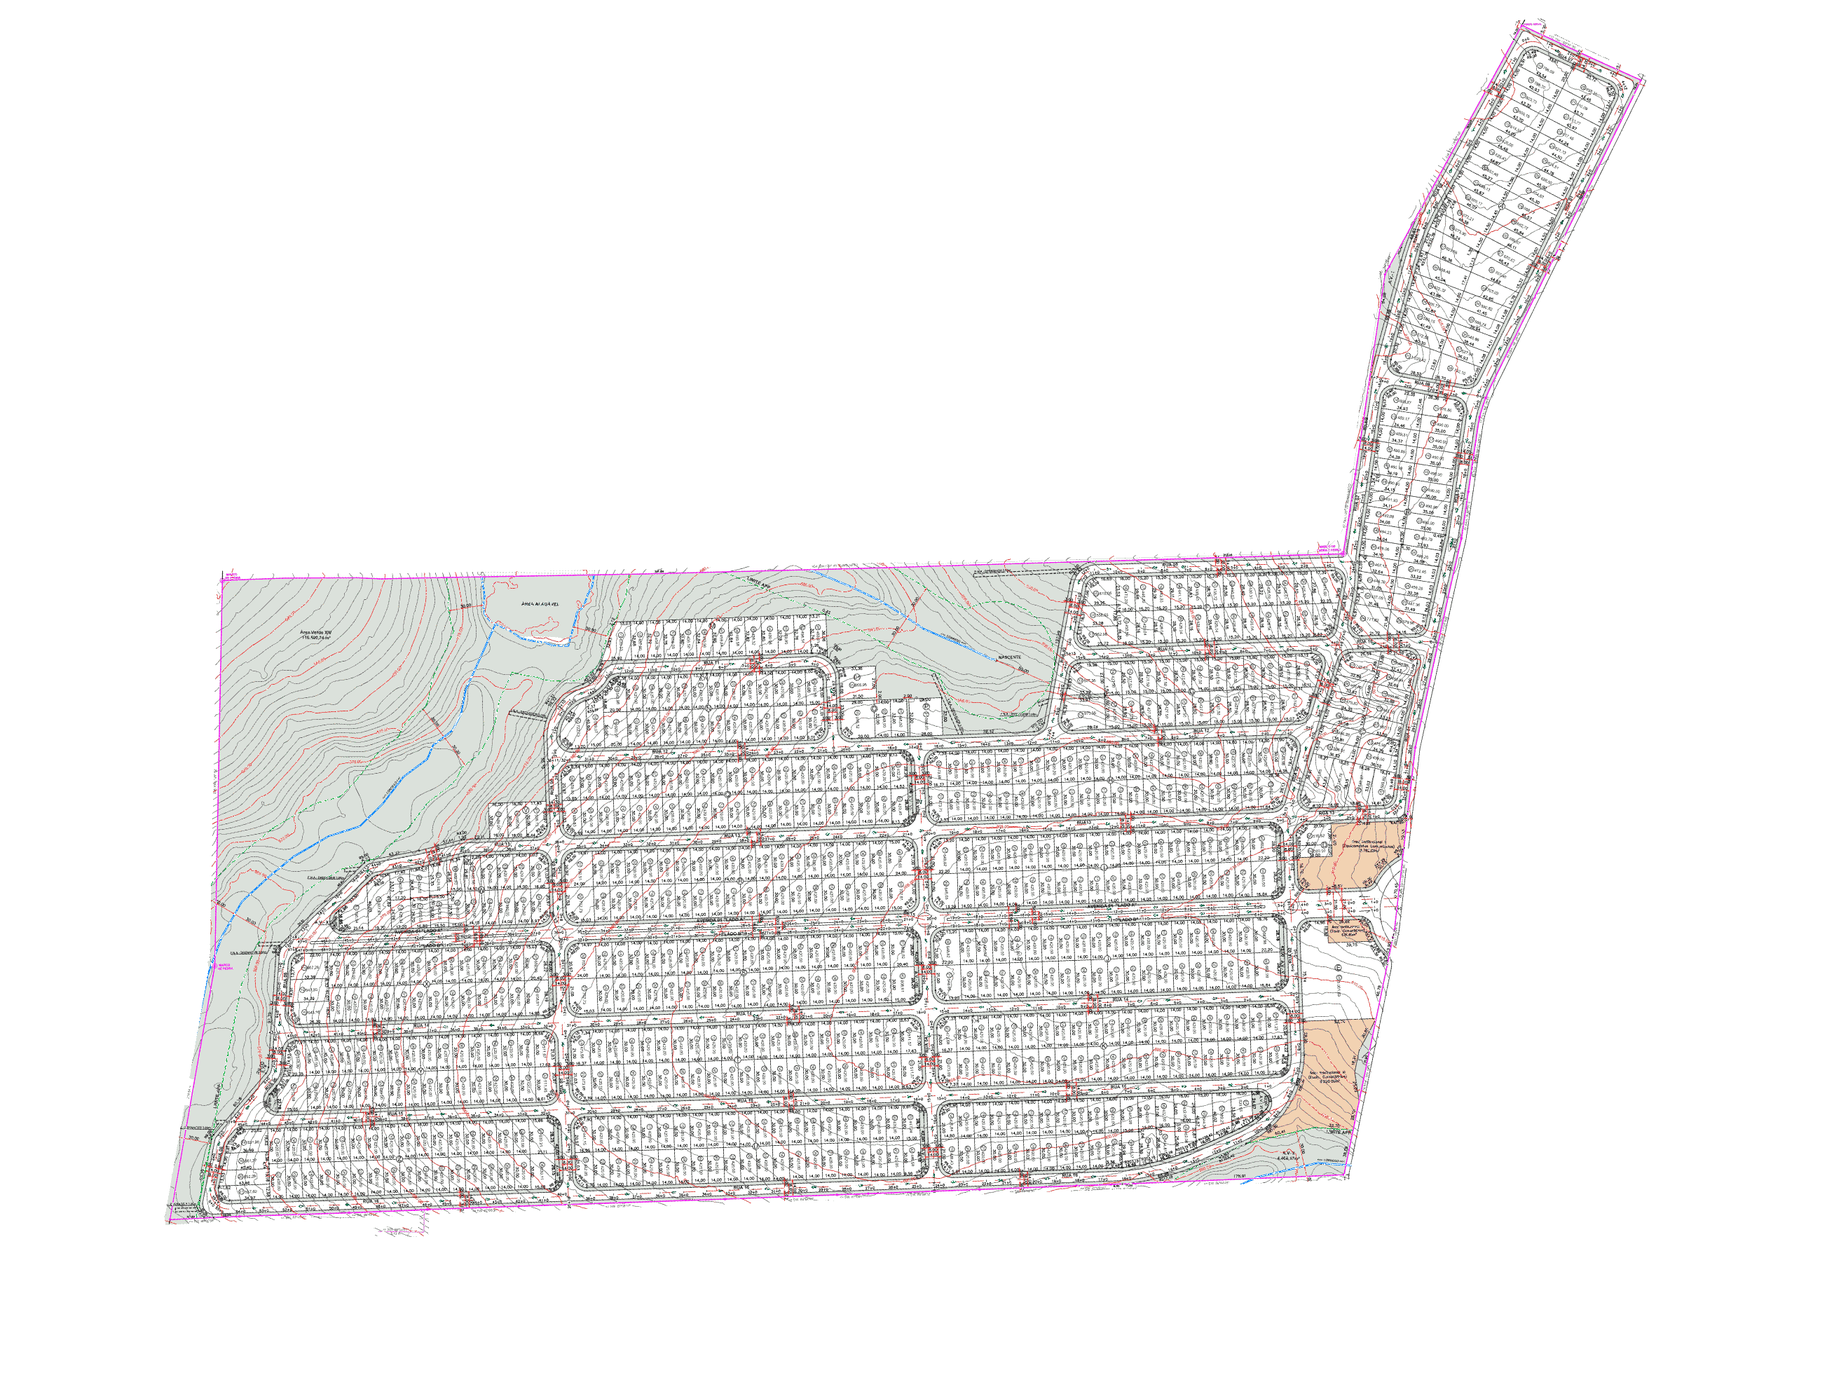
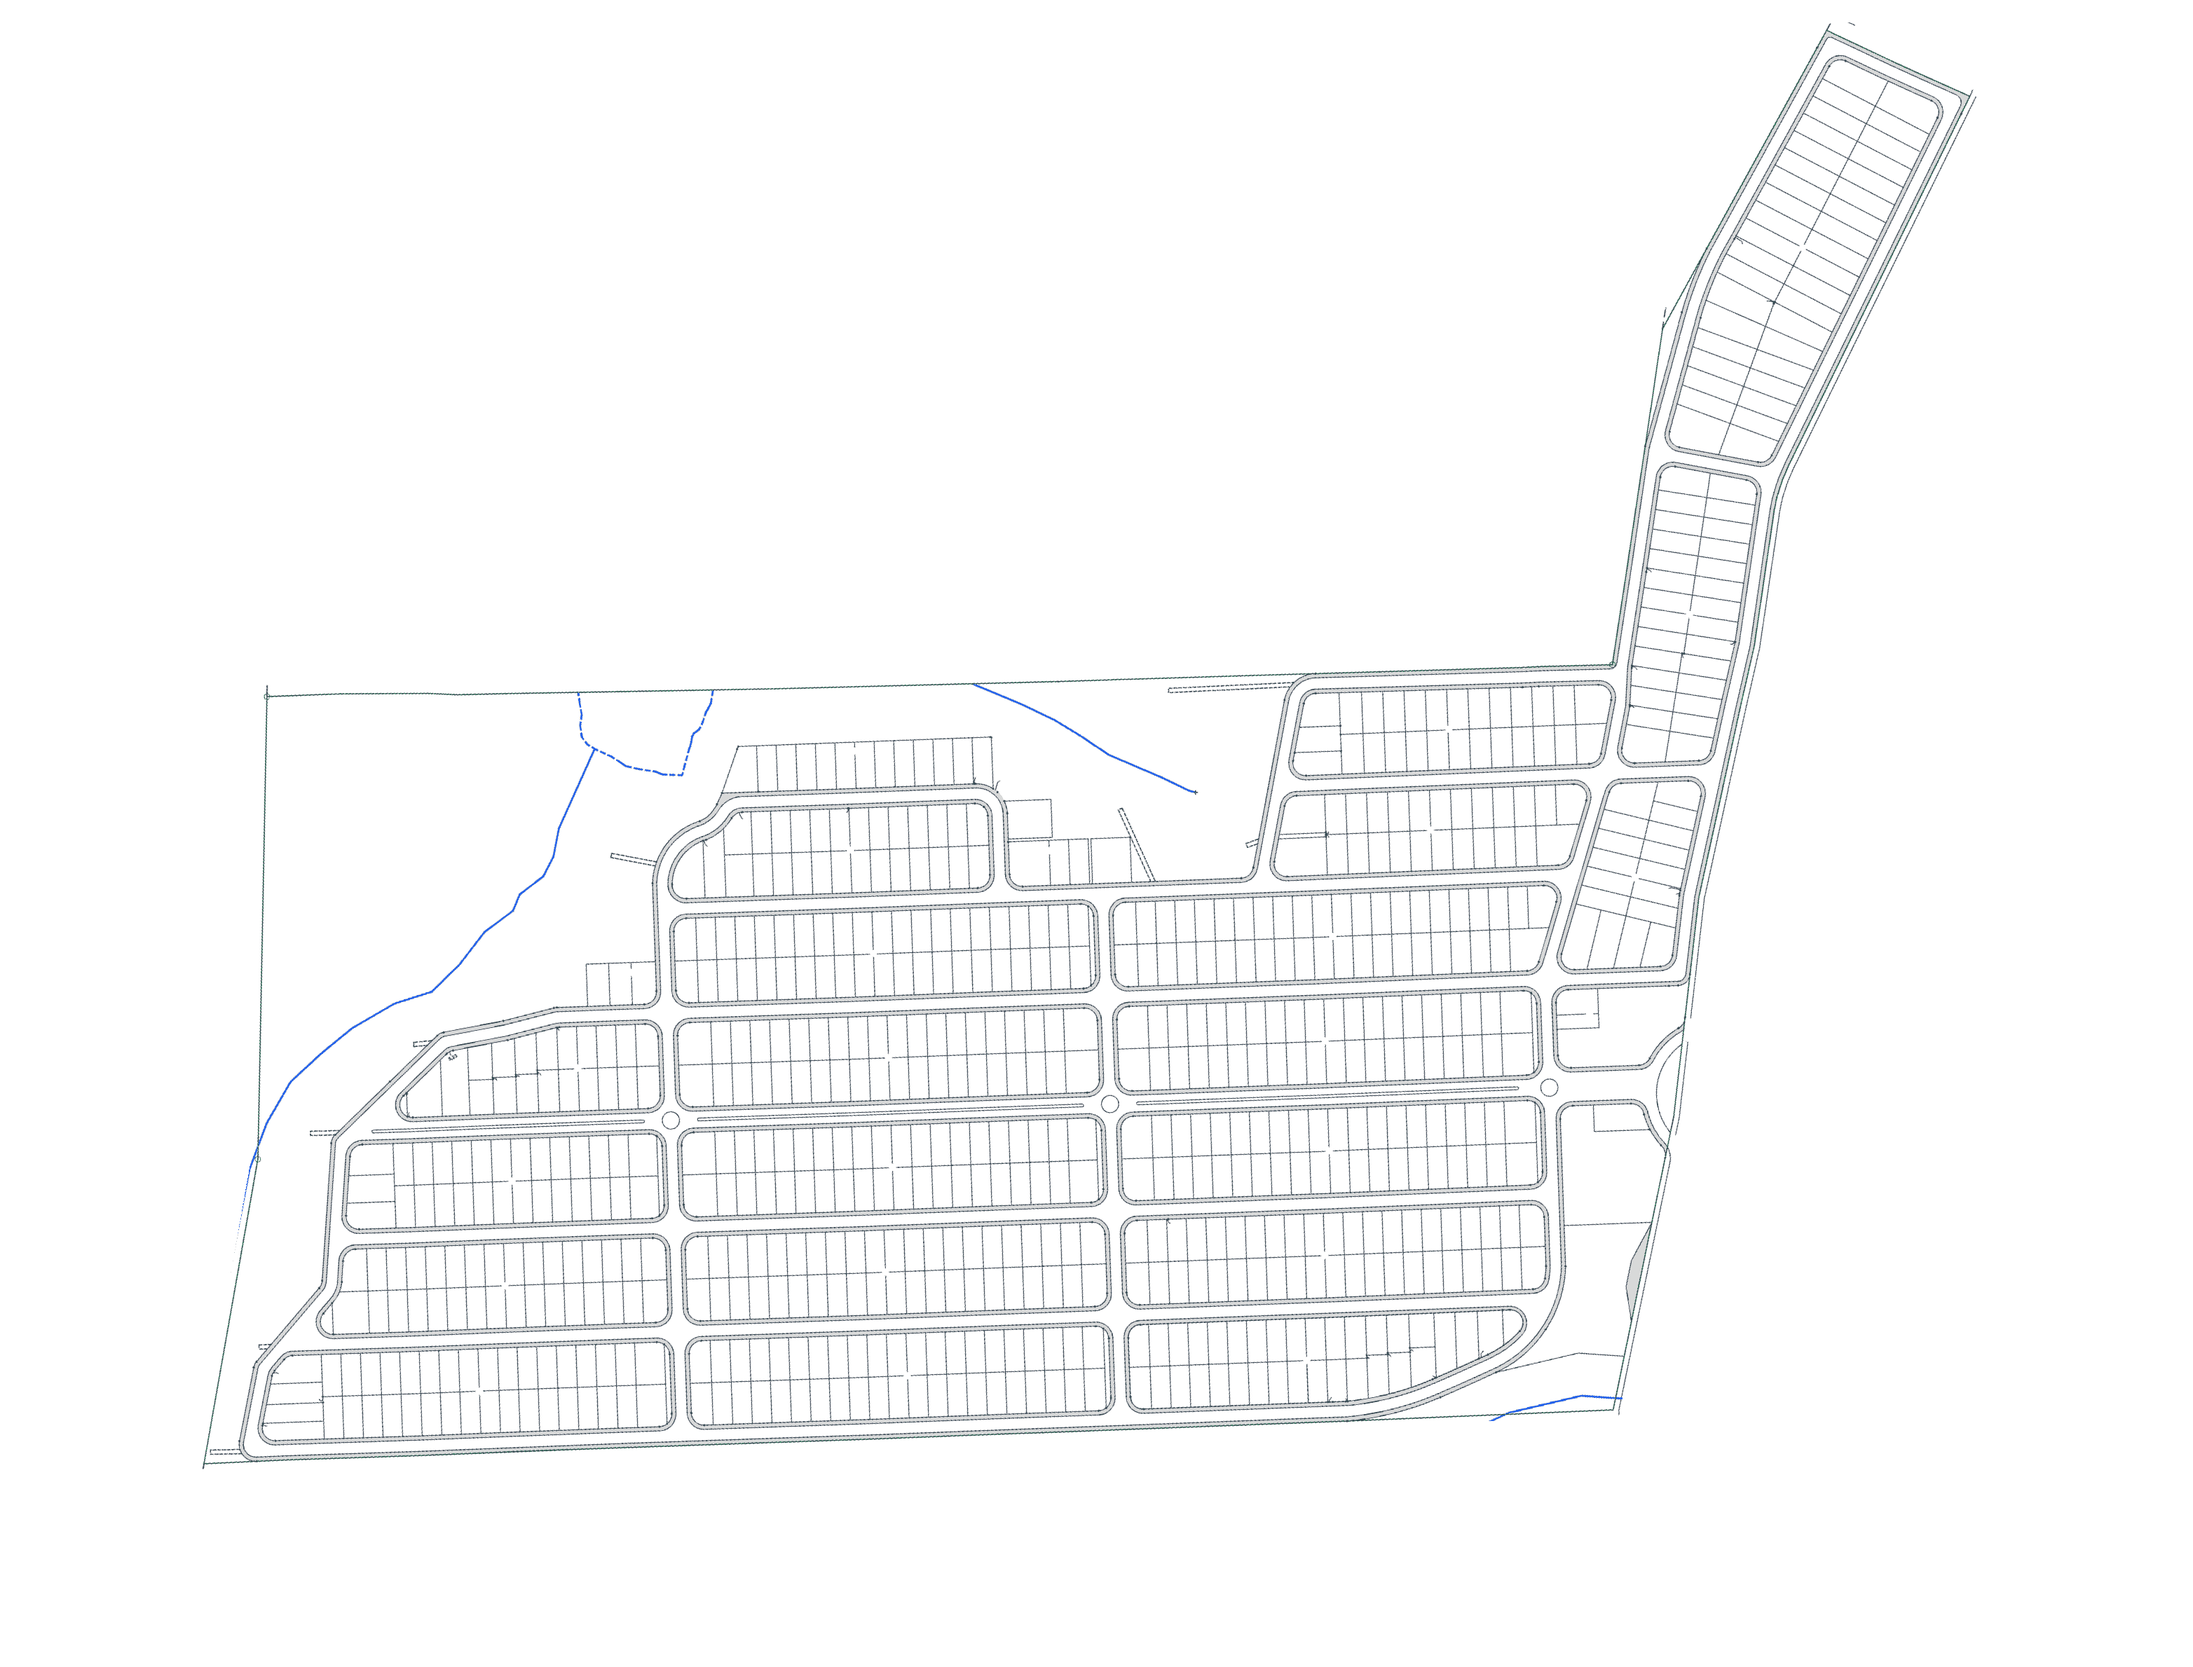
Mapa de lotes: Ravello com desenho limpo (só divisas, quadras e ruas, extraído das camadas do PDF), exemplo do novo padrão

Changed region(s): [[0.0932, 0.0308, 0.901, 0.8925]]

diff --git a/ferramentas/mapa-lotes/overlay-norte.py b/ferramentas/mapa-lotes/overlay-norte.py
@@ -1,0 +1,89 @@
+# -*- coding: utf-8 -*-
+# Gera o overlay (norte para cima, recortado ao perimetro magenta, branco transparente) e os bounds lat/lon,
+# a partir do render da planta + ajuste afim pagina->UTM. Generico via JSON de configuracao.
+import json, os, sys, math, time
+from PIL import Image, ImageChops, ImageFilter, ImageDraw
+sys.stdout.reconfigure(encoding='utf-8')
+exec(open(os.path.dirname(os.path.abspath(__file__)) + '/utm.py', encoding='utf-8').read())
+cfg = json.load(open(sys.argv[1], encoding='utf-8'))
+T = os.environ['TEMP'] + '/mapas/'
+fit = json.load(open(T + cfg['fit'])); ce, cn = fit['E'], fit['N']
+PW, PH = cfg['pw'], cfg['ph']
+im = Image.open(T + cfg['png']).convert('RGB'); W, H = im.size; k = W / PW
+im_m = Image.open(T + cfg['png_mascara']).convert('RGB') if cfg.get('png_mascara') else im   # imagem usada p/ achar o perimetro (magenta)
+t0 = time.time()
+def page2utm(x, y): return (ce[0]*x + ce[1]*y + ce[2], cn[0]*x + cn[1]*y + cn[2])
+def utm2page(E, N):
+    a, b, c = ce; d, e, f = cn; det = a*e - b*d
+    return ((e*(E-c) - b*(N-f))/det, (-d*(E-c) + a*(N-f))/det)
+def page2px(x, y): return (x*k, (PH - y)*k)
+def px2page(X, Y): return (X/k, PH - Y/k)
+# --- exterior do perimetro magenta ---
+r, g, b = im_m.split()
+def band(ch, lo, hi): return ch.point(lambda v: 255 if lo <= v <= hi else 0)
+mag = ImageChops.multiply(ImageChops.multiply(ImageChops.subtract(r, g, 1, 0).point(lambda v: 255 if v >= 45 else 0), ImageChops.subtract(b, g, 1, 0).point(lambda v: 255 if v >= 45 else 0)), band(r, 140, 255)).filter(ImageFilter.MaxFilter(cfg.get('dilata_mag', 9)))
+ext = mag.copy()
+for sx, sy in cfg.get('sementes_ext', [[0, 0]]): 
+    if ext.getpixel((sx, sy)) == 0: ImageDraw.floodfill(ext, (sx, sy), 128)
+interior = ext.point(lambda v: 255 if v != 128 else 0)   # 255 = dentro (ou na linha)
+# conferencia: pontos de controle devem estar dentro; se vazou (ou sem perimetro), usa o retangulo dos lotes + margem
+vazou = False
+for x, y in cfg.get('pontos_dentro', []):
+    X, Y = page2px(x, y); ok = interior.getpixel((int(X), int(Y))) == 255; vazou = vazou or not ok
+    print('ponto', x, y, 'dentro' if ok else 'FORA (vazou!)')
+if vazou or cfg.get('sem_perimetro'):
+    Q = json.load(open(T + cfg['quadras']))['quadras']; pts = [p for d in Q.values() for p in d.values()]
+    mg = cfg.get('margem_pt', 60)
+    x0, x1 = min(p[0] for p in pts) - mg, max(p[0] for p in pts) + mg; y0, y1 = min(p[1] for p in pts) - mg, max(p[1] for p in pts) + mg
+    interior = Image.new('L', im.size, 0); ImageDraw.Draw(interior).rectangle([page2px(x0, y1), page2px(x1, y0)], fill=255)
+    print('usando retangulo dos lotes: x %.0f..%.0f y %.0f..%.0f pt' % (x0, x1, y0, y1))
+# fica so a regiao conexa que contem o 1o ponto de controle (descarta marcas magenta soltas)
+if cfg.get('pontos_dentro') and not (vazou or cfg.get('sem_perimetro')):
+    X, Y = page2px(*cfg['pontos_dentro'][0]); reg = interior.copy(); ImageDraw.floodfill(reg, (int(X), int(Y)), 200)
+    interior = reg.point(lambda v: 255 if v == 200 else 0).filter(ImageFilter.MaxFilter(cfg.get('dilata_mag', 9)))
+bb = interior.getbbox(); print('bbox interior px', bb, 'em %.1fs' % (time.time() - t0))
+# --- grade de saida em lat/lon ---
+cantos = [px2page(bb[0], bb[1]), px2page(bb[2], bb[1]), px2page(bb[0], bb[3]), px2page(bb[2], bb[3])]
+lls = [utm2ll(*page2utm(*c)) for c in cantos]
+lat0, lat1 = min(l[0] for l in lls), max(l[0] for l in lls); lon0, lon1 = min(l[1] for l in lls), max(l[1] for l in lls)
+mlat = 111320.0; mlon = 111320.0 * math.cos(math.radians((lat0 + lat1)/2))
+res = cfg.get('res_m', 0.35)
+OW = int(round((lon1 - lon0) * mlon / res)); OH = int(round((lat1 - lat0) * mlat / res))
+print('saida %dx%d px (%.2f m/px), %.0f x %.0f m' % (OW, OH, res, (lon1-lon0)*mlon, (lat1-lat0)*mlat))
+def out2src(u, v):
+    lat = lat1 - v * (lat1 - lat0) / OH; lon = lon0 + u * (lon1 - lon0) / OW
+    return page2px(*utm2page(*ll2utm(lat, lon)))
+# ajuste afim (minimos quadrados) saida -> fonte, com grade 5x5 de pontos
+pts = [(u, v) for u in [0, OW/4, OW/2, 3*OW/4, OW] for v in [0, OH/4, OH/2, 3*OH/4, OH]]
+def lsq(vals):
+    # resolve [u v 1] * [p q r]^T = val
+    import itertools
+    A = [[u, v, 1.0] for u, v in pts]; n = 3
+    ATA = [[sum(A[i][a]*A[i][b] for i in range(len(A))) for b in range(n)] for a in range(n)]
+    ATb = [sum(A[i][a]*vals[i] for i in range(len(A))) for a in range(n)]
+    # gauss
+    M = [ATA[i] + [ATb[i]] for i in range(n)]
+    for i in range(n):
+        p = max(range(i, n), key=lambda r: abs(M[r][i])); M[i], M[p] = M[p], M[i]
+        for r in range(n):
+            if r != i:
+                f = M[r][i] / M[i][i]; M[r] = [M[r][c] - f*M[i][c] for c in range(n+1)]
+    return [M[i][n] / M[i][i] for i in range(n)]
+src = [out2src(u, v) for u, v in pts]
+A = lsq([s[0] for s in src]); B = lsq([s[1] for s in src])
+err = max(math.hypot(A[0]*u + A[1]*v + A[2] - s[0], B[0]*u + B[1]*v + B[2] - s[1]) for (u, v), s in zip(pts, src))
+print('afim saida->fonte: erro max %.2f px' % err)
+coef = (A[0], A[1], A[2], B[0], B[1], B[2])
+sai = im.transform((OW, OH), Image.AFFINE, coef, resample=Image.BILINEAR, fillcolor=(255, 255, 255))
+msk = interior.transform((OW, OH), Image.AFFINE, coef, resample=Image.NEAREST, fillcolor=0)
+# alpha: fora do perimetro = 0; quase branco = 0
+minc = ImageChops.darker(ImageChops.darker(*sai.split()[:2]), sai.split()[2])
+alpha = ImageChops.multiply(msk, minc.point(lambda v: 0 if v > cfg.get('branco', 228) else 255))
+sai.putalpha(alpha)
+q = sai.quantize(colors=cfg.get('cores', 48), method=Image.Quantize.FASTOCTREE)
+out = cfg['saida']; q.save(out, 'PNG', optimize=True)
+print('overlay', out, os.path.getsize(out) // 1024, 'KB', 'em %.1fs' % (time.time() - t0))
+json.dump({'bounds': [[lat0, lon0], [lat1, lon1]], 'size': [OW, OH]}, open(T + cfg['saida_bounds'], 'w'))
+print('bounds [[%.9f,%.9f],[%.9f,%.9f]]' % (lat0, lon0, lat1, lon1))
+# preview reduzido sobre fundo cinza
+pv = Image.new('RGB', (OW, OH), (120, 140, 120)); pv.paste(sai, (0, 0), sai); pv.thumbnail((1400, 1400)); pv.save(T + cfg['saida_bounds'].replace('.json', '-preview.jpg'), 'JPEG', quality=80)

diff --git a/ferramentas/mapa-lotes/planta-limpa.py b/ferramentas/mapa-lotes/planta-limpa.py
@@ -1,0 +1,59 @@
+# -*- coding: utf-8 -*-
+# "Planta limpa": a partir do render da planta + textos posicionados, gera uma versao padronizada, sem escritas nem cores:
+# so o traçado (divisas de lotes, guias das ruas, rotatorias) em cinza escuro com halo claro, fundo branco (vira transparente
+# no overlay-norte.py). Uso: planta-limpa.py cfg.json  (cfg: texto, png, pw, ph, rotate, modo ('escuro' | 'escuro_ou_azul'),
+#   escuro_max, min_max, fator_fs, saida (png), espessura (px), halo (px), apaga_extra: lista de [x0,y0,x1,y1] em pt p/ apagar)
+import json, os, sys, math, time
+from PIL import Image, ImageChops, ImageFilter, ImageDraw
+sys.stdout.reconfigure(encoding='utf-8')
+cfg = json.load(open(sys.argv[1], encoding='utf-8'))
+T = os.environ['TEMP'] + '/mapas/'
+it = json.load(open(T + cfg['texto'], encoding='utf-8'))
+im = Image.open(T + cfg['png']).convert('RGB'); W, H = im.size; PW, PH = cfg['pw'], cfg['ph']; k = W / PW
+t0 = time.time()
+r, g, b = im.split()
+mn = ImageChops.darker(ImageChops.darker(r, g), b); mx = ImageChops.lighter(ImageChops.lighter(r, g), b)
+def band(ch, lo, hi): return ch.point(lambda v: 255 if lo <= v <= hi else 0)
+if cfg.get('modo', 'escuro') == 'escuro_ou_azul':
+    linhas = mn.point(lambda v: 255 if v < cfg.get('min_max', 130) else 0)
+else:
+    cinzento = ImageChops.subtract(mx, mn, 1, 0).point(lambda v: 255 if v < cfg.get('sat_max', 60) else 0)
+    linhas = ImageChops.multiply(cinzento, band(mx, 0, cfg.get('escuro_max', 170)))
+    if cfg.get('inclui_azul'):
+        azul = ImageChops.multiply(ImageChops.subtract(b, r, 1, 0).point(lambda v: 255 if v >= 60 else 0), band(r, 0, 120))
+        linhas = ImageChops.lighter(linhas, azul)
+print('linhas em %.1fs' % (time.time() - t0))
+def px(x, y): return (int(round(x * k)), int(round((PH - y) * k)))
+d = ImageDraw.Draw(linhas)
+# apaga todos os textos (retangulo orientado pela direcao do texto) + margem
+fator = cfg.get('fator_fs', 0.24); rot = cfg.get('rotate', 0); mg = cfg.get('margem_texto_pt', 2.0); nap = 0
+for i in it:
+    t = i['t']
+    if not t.strip(): continue
+    a, b_ = (i.get('tmab') or [1, 0])[:2]
+    if rot == 270: a, b_ = -b_, a
+    elif rot == 90: a, b_ = b_, -a
+    elif rot == 180: a, b_ = -a, -b_
+    nrm = math.hypot(a, b_) or 1; dx, dy = a / nrm, b_ / nrm; pxp, pyp = -dy, dx
+    h = i['fs'] * fator; w = cfg.get('largura_glifo', 0.62) * h * max(1, len(t))
+    o = (i['x'] - dx * mg - pxp * mg * 0.6, i['y'] - dy * mg - pyp * mg * 0.6); ww, hh = w + 2 * mg, h + 1.2 * mg
+    pts = [o, (o[0] + dx * ww, o[1] + dy * ww), (o[0] + dx * ww + pxp * hh, o[1] + dy * ww + pyp * hh), (o[0] + pxp * hh, o[1] + pyp * hh)]
+    d.polygon([px(*q) for q in pts], fill=0); nap += 1
+for circ in cfg.get('circulos', []):   # circulos dos numeros de lote / letras de quadra (desenho, nao texto)
+    rr = circ['raio']
+    for i in it:
+        if abs(i['fs'] - circ['fs']) < 0.5 and i['t'].strip():
+            X, Y = px(i['x'] + circ.get('dx', 0), i['y'] + circ.get('dy', 0)); d.ellipse([X - rr, Y - rr, X + rr, Y + rr], fill=0)
+for x0, y0, x1, y1 in cfg.get('apaga_extra', []):
+    d.rectangle([px(x0, y1), px(x1, y0)], fill=0)
+print('textos apagados:', nap)
+# limpeza: some pontinhos (abertura 3) e engrossa o traço
+e = cfg.get('espessura', 3)
+linhas = linhas.filter(ImageFilter.MinFilter(3)).filter(ImageFilter.MaxFilter(3)) if cfg.get('abre', True) else linhas
+traco = linhas.filter(ImageFilter.MaxFilter(e)) if e > 1 else linhas
+halo = traco.filter(ImageFilter.MaxFilter(cfg.get('halo', 7)))
+cor_t = tuple(cfg.get('cor_traco', [70, 70, 70])); cor_h = tuple(cfg.get('cor_halo', [214, 214, 214]))
+out = Image.new('RGB', im.size, (255, 255, 255))
+out.paste(Image.new('RGB', im.size, cor_h), (0, 0), halo)
+out.paste(Image.new('RGB', im.size, cor_t), (0, 0), traco)
+out.save(T + cfg['saida']); print('planta limpa:', cfg['saida'], 'em %.1fs' % (time.time() - t0))

diff --git a/ferramentas/mapa-lotes/pdf-camadas.py b/ferramentas/mapa-lotes/pdf-camadas.py
@@ -1,0 +1,46 @@
+# -*- coding: utf-8 -*-
+# Gera um PDF so com as camadas (OCG) escolhidas e sem texto: base do "desenho limpo".
+# Uso: pdf-camadas.py entrada.pdf saida.pdf "camada1;camada2;..."  [--listar]
+# Filtra operador a operador (pypdf ContentStream): mantem estado grafico (q/Q/cm/cores/espessura) sempre; descarta
+# construcao/pintura de caminhos, imagens e XObjects quando a camada MAIS INTERNA nao esta na lista; descarta todo texto.
+# Mesma geometria de pagina -> o ajuste (fit) da planta original continua valendo.
+import sys
+sys.stdout.reconfigure(encoding='utf-8')
+from pypdf import PdfReader, PdfWriter
+from pypdf.generic import ContentStream, NameObject
+ent, sai, manter = sys.argv[1], sys.argv[2], set(x.strip() for x in sys.argv[3].split(';'))
+r = PdfReader(ent); pg = r.pages[0]
+props = pg['/Resources'].get('/Properties', {})
+nome = {}
+for k in props:
+    try: nome[str(k)] = str(props[k].get_object().get('/Name'))
+    except Exception: pass
+cs = ContentStream(pg.get_contents(), r)
+PINTA = {b'S', b's', b'f', b'F', b'f*', b'B', b'B*', b'b', b'b*', b'n', b'W', b'W*', b'sh', b'Do', b'BI', b'ID', b'EI'}
+CONSTROI = {b'm', b'l', b'c', b'v', b'y', b'h', b're'}
+TEXTO = {b'Tj', b'TJ', b"'", b'"'}
+pilha = []; saida = []; n_ops = 0; n_drop = 0; vistos = {}
+for operandos, op in cs.operations:
+    n_ops += 1
+    if op == b'BDC':
+        tag = str(operandos[0]) if operandos else ''
+        camada = nome.get(tag) if str(operandos[0]) == '/OC' and len(operandos) > 1 and False else None
+        # forma usual: /OC /ocNN BDC  -> operandos = ['/OC', '/ocNN']
+        if len(operandos) >= 2 and str(operandos[0]) == '/OC': camada = nome.get(str(operandos[1]), str(operandos[1]))
+        pilha.append(camada); vistos[camada] = vistos.get(camada, 0) + 1
+        saida.append((operandos, op)); continue
+    if op == b'BMC': pilha.append(None); saida.append((operandos, op)); continue
+    if op == b'EMC':
+        if pilha: pilha.pop()
+        saida.append((operandos, op)); continue
+    interna = next((c for c in reversed(pilha) if c is not None), None)
+    mantem = interna is None or interna in manter
+    if op in TEXTO: n_drop += 1; continue
+    if not mantem and (op in PINTA or op in CONSTROI): n_drop += 1; continue
+    saida.append((operandos, op))
+cs.operations = saida
+w = PdfWriter(); w.add_page(pg); p2 = w.pages[0]
+p2[NameObject('/Contents')] = w._add_object(cs)
+w.write(sai)
+print('operadores', n_ops, 'descartados', n_drop, '-> ', sai)
+if '--listar' in sys.argv: print('camadas vistas:', sorted((k or '(sem)', v) for k, v in vistos.items()))

diff --git a/ferramentas/mapa-lotes/recolore-limpo.py b/ferramentas/mapa-lotes/recolore-limpo.py
@@ -1,0 +1,20 @@
+# -*- coding: utf-8 -*-
+# Recolore o render "so camadas" para a paleta do mapa: linhas escuras -> ardosia, magenta (limite) -> verde da marca,
+# cinza claro (leito/guia) -> cinza claro uniforme; branco fica branco (vira transparente no overlay).
+import sys, os
+from PIL import Image, ImageChops
+sys.stdout.reconfigure(encoding='utf-8')
+ent, sai = sys.argv[1], sys.argv[2]
+im = Image.open(ent).convert('RGB'); r, g, b = im.split()
+mn = ImageChops.darker(ImageChops.darker(r, g), b); mx = ImageChops.lighter(ImageChops.lighter(r, g), b)
+sat = ImageChops.subtract(mx, mn, 1, 0)
+escuro = mx.point(lambda v: 255 if v < 150 else 0)                                   # linhas pretas/cinza escuro
+claro = ImageChops.multiply(mx.point(lambda v: 255 if 150 <= v < 245 else 0), sat.point(lambda v: 255 if v < 30 else 0))   # cinza do leito
+mag = ImageChops.multiply(ImageChops.multiply(r.point(lambda v: 255 if v > 150 else 0), b.point(lambda v: 255 if v > 150 else 0)), g.point(lambda v: 255 if v < 140 else 0))
+azul = ImageChops.multiply(b.point(lambda v: 255 if v > 150 else 0), r.point(lambda v: 255 if v < 120 else 0))
+out = Image.new('RGB', im.size, (255, 255, 255))
+out.paste((214, 214, 214), (0, 0), claro)
+out.paste((55, 65, 81), (0, 0), escuro)
+out.paste((37, 99, 235), (0, 0), azul)
+out.paste((46, 125, 91), (0, 0), mag)
+out.save(sai); print('recolorido ->', sai)
